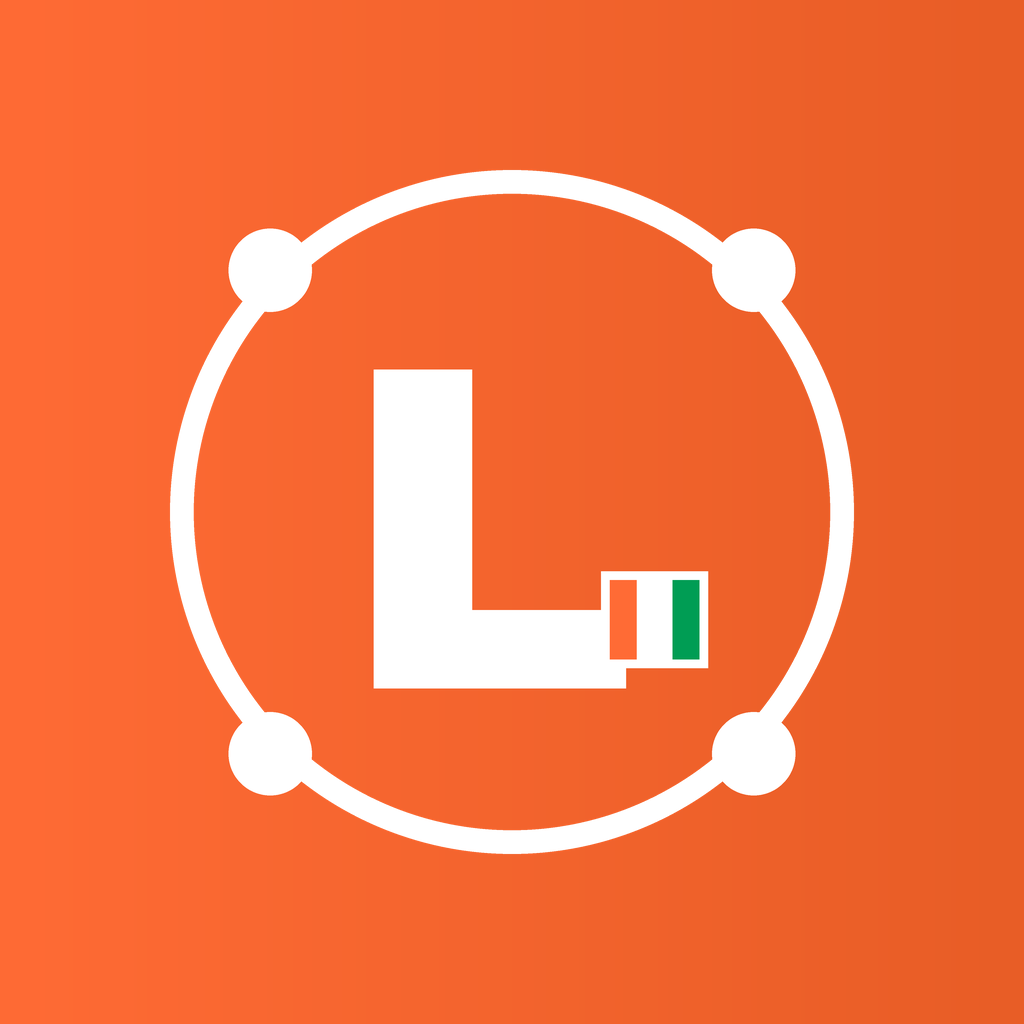
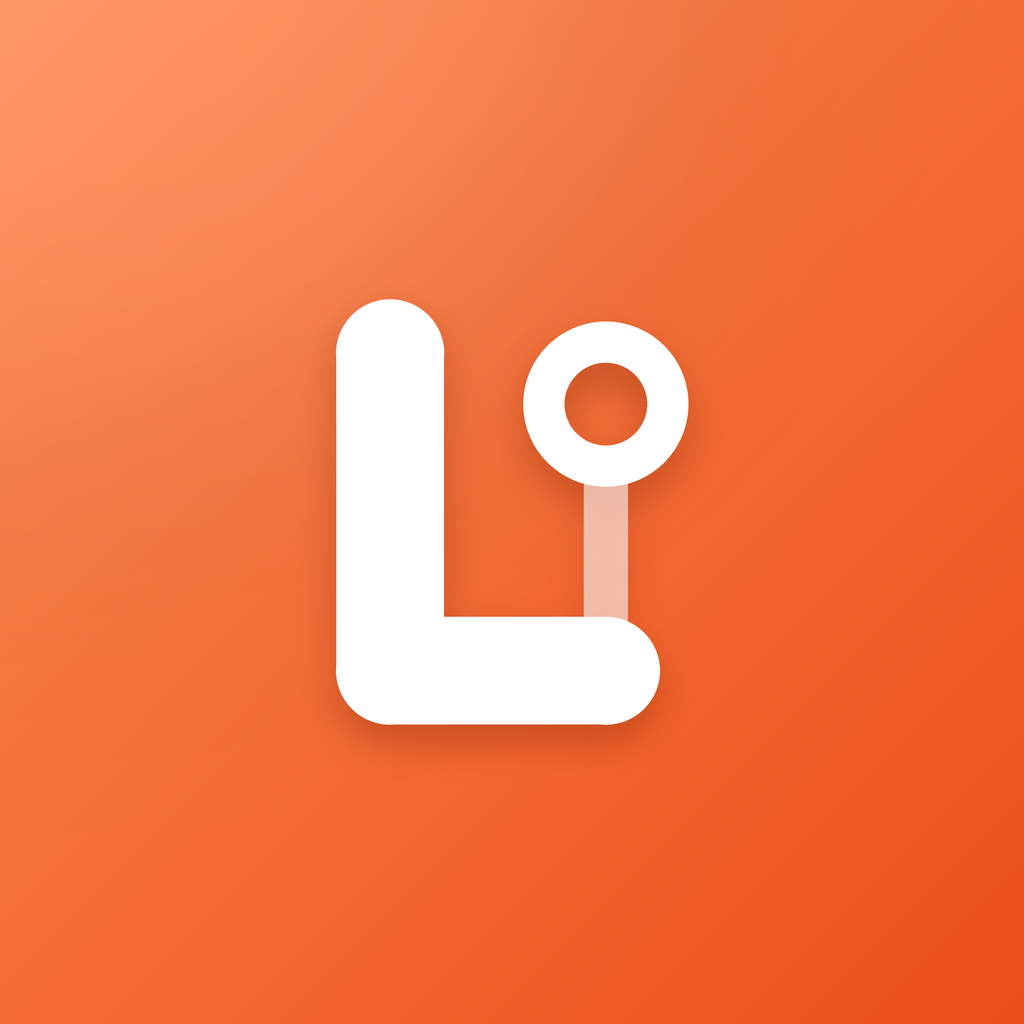
mobile: nouvelle icone (L relie a un noeud, sans drapeau)
L geometrique aux bouts arrondis relie a un noeud en anneau (l'idee de
lien), degrade orange diagonal avec reflet doux et ombre portee.

diff --git a/mobile/outils/generer_icones.py b/mobile/outils/generer_icones.py
@@ -1,45 +1,75 @@
-"""Genere les icones de l'app a partir du logo LinkCI (static/images/logo.svg).
+"""Genere les icones de l'app LinkCI : un L geometrique relie a un noeud (l'idee de "lien").
 
 Usage (depuis le dossier mobile) : python outils/generer_icones.py
 Necessite Pillow (pip install pillow).
 """
 import os
-from PIL import Image, ImageDraw, ImageFont
+from PIL import Image, ImageDraw, ImageFilter
 
 ICI = os.path.dirname(os.path.abspath(__file__))
 ASSETS = os.path.join(ICI, '..', 'assets')
-ORANGE, ORANGE_FONCE, VERT, BLANC = (255, 107, 53), (232, 93, 38), (0, 157, 84), (255, 255, 255)
-POLICE = next((p for p in (r'C:\Windows\Fonts\ariblk.ttf', r'C:\Windows\Fonts\arialbd.ttf',
-                           '/usr/share/fonts/truetype/dejavu/DejaVuSans-Bold.ttf') if os.path.exists(p)), None)
+HAUT_GAUCHE, BAS_DROITE = (255, 140, 82), (236, 78, 26)  # degrade orange LinkCI
+BLANC = (255, 255, 255)
 SS = 4  # sur-echantillonnage : on dessine en grand puis on reduit (bords lisses)
 
 
-def degrade(taille):
+def fond(taille):
+    """Degrade diagonal + reflet doux en haut a gauche."""
     img = Image.new('RGBA', (taille, taille))
-    d = ImageDraw.Draw(img)
-    for x in range(taille):
-        t = x / (taille - 1)
-        d.line([(x, 0), (x, taille)], fill=tuple(int(a + (b - a) * t) for a, b in zip(ORANGE, ORANGE_FONCE)) + (255,))
+    px = img.load()
+    for y in range(0, taille, 4):
+        for x in range(0, taille, 4):
+            t = (x + y) / (2 * (taille - 1))
+            c = tuple(int(a + (b - a) * t) for a, b in zip(HAUT_GAUCHE, BAS_DROITE)) + (255,)
+            for dy in range(4):
+                for dx in range(4):
+                    if x + dx < taille and y + dy < taille:
+                        px[x + dx, y + dy] = c
+    reflet = Image.new('RGBA', (taille, taille), (0, 0, 0, 0))
+    ImageDraw.Draw(reflet).ellipse([-taille * 0.5, -taille * 0.6, taille * 0.7, taille * 0.5], fill=(255, 255, 255, 26))
+    img.alpha_composite(reflet.filter(ImageFilter.GaussianBlur(taille * 0.16)))
     return img
 
 
-def motif(img, cx, cy, echelle, drapeau=True):
-    """Logo : anneau fin, 4 points (le reseau), grand L blanc et drapeau ivoirien.
-    Centre en (cx, cy) ; echelle = 1 pour un logo de 62 px de cote."""
+def logo(taille, echelle, ombre=True):
+    """Logo blanc sur fond transparent. Coordonnees dans un carre de 100 unites, centre.
+    echelle : part de l'image occupee par ce carre de 100 unites."""
+    img = Image.new('RGBA', (taille, taille), (0, 0, 0, 0))
     d = ImageDraw.Draw(img)
-    e = echelle
-    r = 23 * e
-    d.ellipse([cx - r, cy - r, cx + r, cy + r], outline=(255, 255, 255, 110), width=max(1, int(1.6 * e)))
-    for ax, ay in ((-1, -1), (1, -1), (-1, 1), (1, 1)):  # points sur l'anneau, en diagonale
-        x, y = cx + ax * r * 0.707, cy + ay * r * 0.707
-        d.ellipse([x - 2.8 * e, y - 2.8 * e, x + 2.8 * e, y + 2.8 * e], fill=BLANC)
-    police = ImageFont.truetype(POLICE, int(30 * e)) if POLICE else ImageFont.load_default()
-    d.text((cx - 1.5 * e, cy), 'L', font=police, fill=BLANC, anchor='mm')
-    if drapeau:  # petit drapeau ivoirien au pied du L
-        x0, y0, w, h = cx + 6 * e, cy + 4 * e, 2.4 * e, 6.5 * e
-        for i, c in enumerate((ORANGE, BLANC, VERT)):
-            d.rectangle([x0 + i * w, y0, x0 + (i + 1) * w, y0 + h], fill=c)
-        d.rectangle([x0, y0, x0 + 3 * w, y0 + h], outline=BLANC, width=max(1, int(0.6 * e)))
+    u = taille * echelle / 100
+    o = taille * (1 - echelle) / 2
+    P = lambda x, y: (o + (x - 3.2) * u, o + (y + 3) * u)  # recentre le dessin
+
+    def trait(a, b, largeur, couleur=BLANC):
+        d.line([P(*a), P(*b)], fill=couleur, width=int(largeur * u))
+        for x, y in (a, b):  # bouts arrondis
+            r = largeur * u / 2
+            cx, cy = P(x, y)
+            d.ellipse([cx - r, cy - r, cx + r, cy + r], fill=couleur)
+
+    def rond(c, r, couleur=BLANC):
+        cx, cy = P(*c)
+        d.ellipse([cx - r * u, cy - r * u, cx + r * u, cy + r * u], fill=couleur)
+
+    # le lien : du bout du L vers le noeud
+    trait((68, 72), (68, 38), 7, (255, 255, 255, 150))
+    # le L
+    trait((34, 22), (34, 72), 17)
+    trait((34, 72), (68, 72), 17)
+    # le noeud, avec un anneau
+    rond((68, 30), 13)
+    rond((68, 30), 6.5, (0, 0, 0, 0))  # trou transparent (le dessin remplace les pixels)
+
+    if ombre:  # ombre portee douce sous le logo
+        alpha = img.split()[3]
+        sombre = Image.new('RGBA', img.size, (120, 30, 0, 0))
+        sombre.putalpha(alpha.point(lambda a: int(a * 0.35)))
+        sombre = sombre.filter(ImageFilter.GaussianBlur(taille * 0.018))
+        decale = Image.new('RGBA', img.size, (0, 0, 0, 0))
+        decale.paste(sombre, (0, int(taille * 0.018)))
+        decale.alpha_composite(img)
+        img = decale
+    return img
 
 
 def enregistrer(img, nom, taille):
@@ -47,23 +77,20 @@ def enregistrer(img, nom, taille):
     print('ok', nom, taille)
 
 
-os.makedirs(ASSETS, exist_ok=True)
-T = 1024 * SS
+if __name__ == '__main__':
+    os.makedirs(ASSETS, exist_ok=True)
+    T = 1024 * SS
 
-# Icone classique : fond plein (Android et iOS arrondissent eux-memes)
-icone = degrade(T)
-motif(icone, T / 2, T / 2, T / 62 * 0.9)
-enregistrer(icone, 'icon.png', 1024)
+    # Icone classique : fond plein (Android et iOS arrondissent eux-memes)
+    icone = fond(T)
+    icone.alpha_composite(logo(T, 0.62))
+    enregistrer(icone, 'icon.png', 1024)
 
-# Icone adaptative Android : premier plan transparent, motif dans la zone sure (66 % central)
-adaptive = Image.new('RGBA', (T, T), (0, 0, 0, 0))
-motif(adaptive, T / 2, T / 2, T / 62 * 0.7)
-enregistrer(adaptive, 'adaptive-icon.png', 1024)
+    # Icone adaptative Android : logo seul, dans la zone jamais rognee (66 % central)
+    enregistrer(logo(T, 0.56), 'adaptive-icon.png', 1024)
 
-# Ecran de demarrage : logo blanc sur fond orange (couleur definie dans app.json)
-splash = Image.new('RGBA', (T, T), (0, 0, 0, 0))
-motif(splash, T / 2, T / 2, T / 62 * 0.9)
-enregistrer(splash, 'splash-icon.png', 1024)
+    # Ecran de demarrage : logo blanc (fond orange defini dans app.json)
+    enregistrer(logo(T, 0.70, ombre=False), 'splash-icon.png', 1024)
 
-# Favicon (version web)
-enregistrer(icone, 'favicon.png', 48)
+    # Favicon (version web)
+    enregistrer(icone, 'favicon.png', 48)
